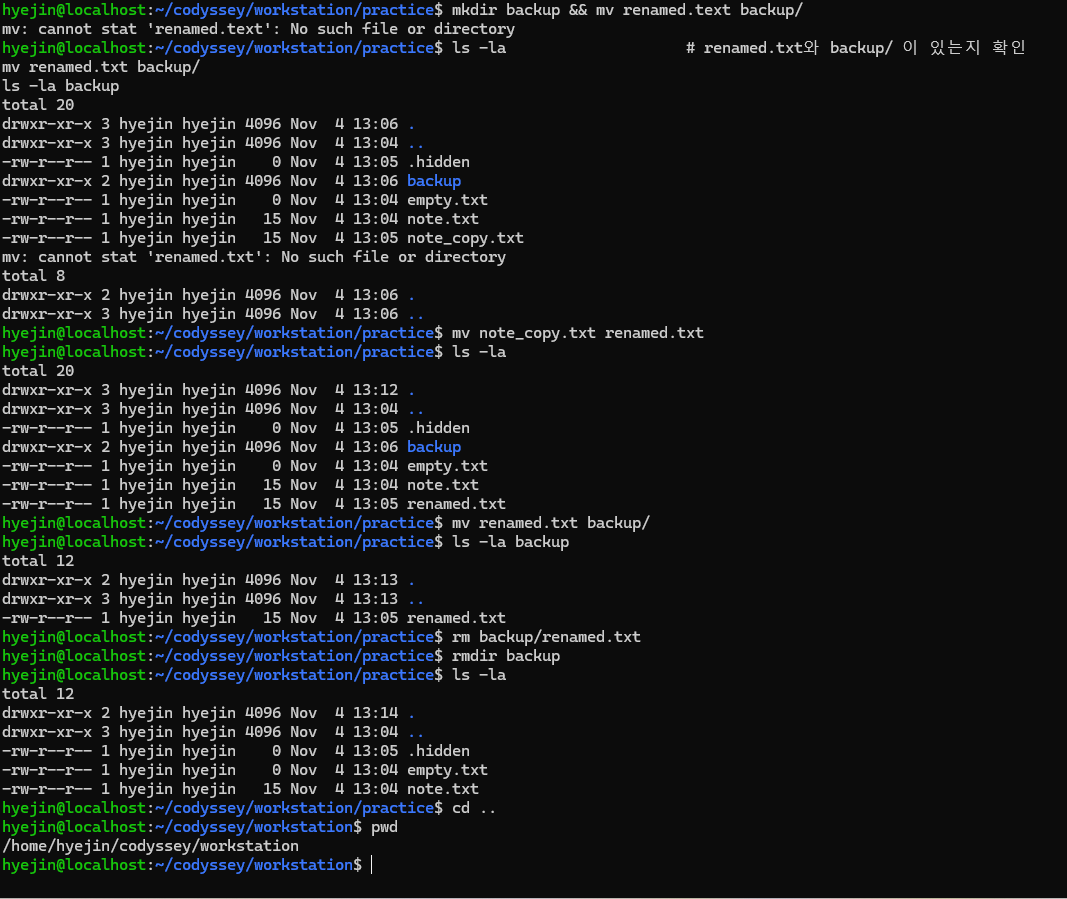
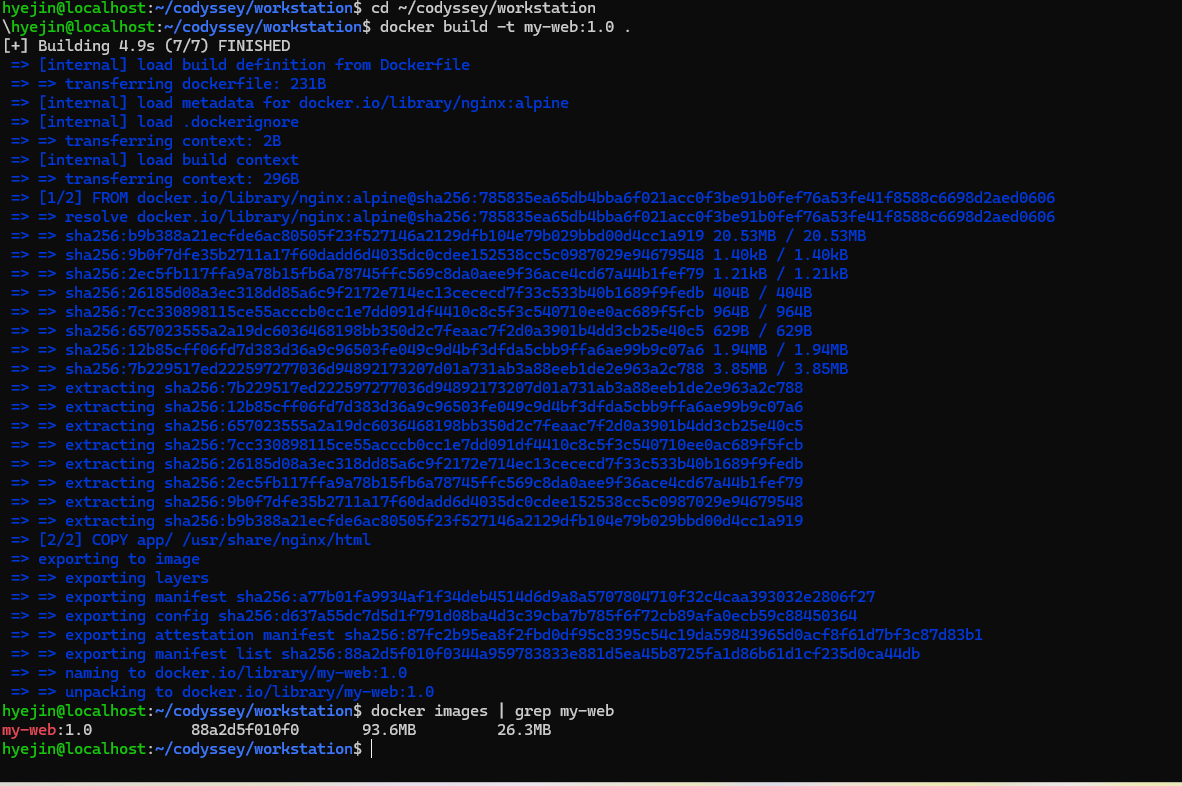
Organize screenshots and fix image names

Changed region(s): [[0.0, 0.0, 1.0, 1.0]]

diff --git a/README.md b/README.md
@@ -121,7 +121,8 @@ $ pwd
 /home/hyejin/codyssey/workstation
 ```
 
-![터미널 기본 조작](images/01-terminal-1.png)
+![터미널 기본 조작 1 - 생성/이동/목록/내용 확인](images/01-terminal-1.png)
+![터미널 기본 조작 2 - 복사/이름변경/이동/삭제](images/02-terminal-2.png)
 
 ### 5-2. 권한 실습
 
@@ -195,6 +196,8 @@ bin  boot  dev  etc  home  lib  lib64  media  mnt  opt  proc  root  run  sbin  s
 root@2110c6fe125f:/# exit
 ```
 
+![hello-world 실행](images/05-hello-world.png)
+
 프롬프트가 `root@2110c6fe125f`(컨테이너 ID)로 바뀌고, 호스트의 `/home/hyejin` 파일이 보이지 않는 격리된 환경임을 확인했다.
 
 **attach vs exec 관찰 결과**
@@ -214,6 +217,9 @@ CONTAINER ID   IMAGE         COMMAND    CREATED             STATUS              
 2110c6fe125f   ubuntu        "bash"     36 minutes ago      Exited (0) 54 seconds ago    my-ubuntu   # attach 후: 종료
 8f2a797e14f3   hello-world   "/hello"   About an hour ago   Exited (0) About an hour ago vibrant_elgamal
 ```
+
+![exec 후 유지, attach 시작](images/05-exec-attach.png)
+![attach 후 Exited](images/05-attach-exited.png)
 
 - `docker exec`는 컨테이너 안에 bash를 **하나 더** 실행한다. 그 bash에서 exit해도 메인 프로세스는 그대로라 컨테이너가 Up 상태로 유지된다.
 - `docker attach`는 컨테이너의 **메인 프로세스(PID 1)**에 연결된다. 거기서 exit하면 메인 프로세스가 끝나므로 컨테이너도 Exited가 된다.
@@ -245,6 +251,8 @@ $ docker stats --no-stream
 CONTAINER ID   NAME        CPU %   MEM USAGE / LIMIT     MEM %   NET I/O         BLOCK I/O     PIDS
 2110c6fe125f   my-ubuntu   0.00%   1.707MiB / 7.663GiB   0.02%   1.17kB / 126B   422kB / 0B    1
 ```
+
+![Docker 운영 명령](images/05-docker-ops.png)
 
 - `--name` 없이 실행한 hello-world 컨테이너는 Docker가 `vibrant_elgamal`이라는 이름을 자동으로 붙였다.
 - `docker logs`에는 컨테이너 안에서 입력한 명령과 출력이 그대로 기록된다.
@@ -316,6 +324,9 @@ $ docker logs my-web-8080
 - 같은 이미지로 호스트 포트만 다르게(8080, 8081) 두 컨테이너를 동시에 실행했다.
 - 로그의 `"Wget"`(30초 간격)은 HEALTHCHECK, `172.17.0.1 ... curl`은 호스트에서 포트 매핑을 거쳐 들어온 요청이다.
 
+![포트 매핑 실행과 curl 응답](images/07-port-run.png)
+![healthy 상태와 접속 로그](images/07-healthy-logs.png)
+
 ![localhost:8080 접속](images/port-8080.png)
 ![localhost:8081 접속](images/port-8081.png)
 
@@ -336,7 +347,9 @@ $ docker exec my-web-bind cat /usr/share/nginx/html/index.html
 
 이미지를 다시 빌드하지 않았는데도 호스트에서 고친 파일이 컨테이너에 바로 반영됐다. 바인드 마운트 없이 실행한 8080 컨테이너는 빌드 시점에 복사된 원래 페이지를 그대로 보여준다. 실습 후 백업해 둔 원본으로 `app/index.html`을 되돌렸다.
 
-<!-- 캡처: images/08-bind-before.png, images/08-bind-after.png --->
+![바인드 마운트 터미널 (변경 전/후 curl)](images/08-bind-terminal.png)
+![8082 변경 전](images/08-bind-before.png)
+![8082 변경 후](images/08-bind-after.png)
 
 ### 5-9. 볼륨 영속성
 
@@ -360,6 +373,8 @@ $ docker run -d --name vol-test2 -v mydata:/data ubuntu sleep infinity
 $ docker exec vol-test2 cat /data/hello.txt
 hello volume                             # 새 컨테이너에서도 데이터 유지
 ```
+
+![볼륨 영속성 검증](images/09-volume.png)
 
 ### 5-10. Git 설정 및 GitHub 연동
 
@@ -390,6 +405,10 @@ To https://github.com/haegirl23-max/codyssey_test.git
 branch 'main' set up to track 'origin/main'.
 ```
 
+![git config --list](images/10-git-config.png)
+![첫 커밋](images/10-git-commit.png)
+![GitHub push 성공](images/10-git-push.png)
+
 - 공개 저장소이므로 개인 이메일 대신 GitHub noreply 주소를 사용했다.
 - 인증은 GitHub 비밀번호가 아닌 Personal Access Token으로 했고, 토큰은 문서와 캡처에 남기지 않았다.
 
@@ -416,17 +435,24 @@ branch 'main' set up to track 'origin/main'.
 - **확인**: 플러그인 경로가 `C:\Program Files\Docker\...`로 표시됨. Docker Desktop › Settings › Resources › WSL Integration에서 Ubuntu가 꺼져 있었음
 - **해결**: Ubuntu 연동을 켜고 Apply & restart. 이후 경로가 `/usr/local/lib/docker/...`로 바뀌고 `docker info`에 Server 정보가 정상 출력됨
 
+![WSL Integration 오류 (해결 전)](images/ts1-wsl-before.png)
+![연동 후 hello-world 성공 (해결 후)](images/05-hello-world.png)
+
 ### 문제 2: 컨테이너를 삭제한 뒤 볼륨 데이터가 사라진 것처럼 보임
 - **문제**: 새 컨테이너 `vol-test2`에서 `cat /data/hello.txt` 실행 시 `No such file or directory`
 - **원인 가설**: 첫 컨테이너를 만들 때 볼륨 이름을 잘못 입력해 다른 볼륨에 저장됨
 - **확인**: 첫 실행 명령이 `-v madata:/data`(mydata 오타)였음. Docker는 없는 볼륨 이름을 받으면 오류 없이 새 볼륨을 자동 생성함. `docker volume ls`에서 `madata` 볼륨을 발견했고, `madata`를 새 컨테이너에 연결하자 `hello volume`이 그대로 있었음
 - **해결**: 잘못 생성된 컨테이너와 `madata` 볼륨을 삭제하고 `mydata`로 다시 실행해 영속성 확인. Tab 자동완성으로 이름 오타를 방지
 
+![madata 오타로 데이터가 없어 보이는 화면](images/ts2-volume-madata.png)
+
 ### 문제 3: git push가 거부됨
 - **문제**: `git push` 시 `! [rejected] main -> main (fetch first)`
 - **원인 가설**: GitHub에서 저장소를 만들 때 자동 생성된 커밋이 원격에만 있어서, Git이 덮어쓰기를 막음
 - **확인**: GitHub 저장소 페이지에서 내가 올리지 않은 자동 생성 파일을 확인
 - **해결**: 원격 내용이 버려도 되는 자동 생성 파일뿐이라 `git push -u origin main --force`로 내 커밋을 올림. 협업 저장소라면 `git pull`로 먼저 합쳐야 함
+
+![push rejected](images/ts3-push-rejected.png)
 
 ### 그 밖에 겪은 문제
 - `cat .etc/os-release` → `No such file`: `/etc`(절대 경로)를 `.etc`(상대 경로의 숨김 폴더)로 잘못 입력
